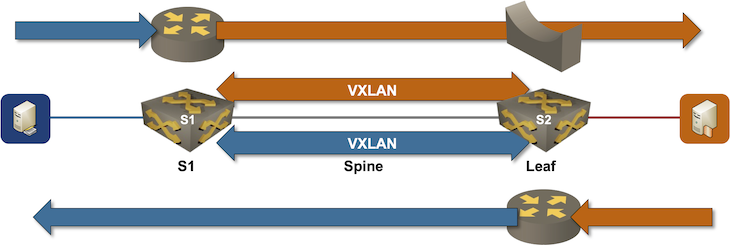
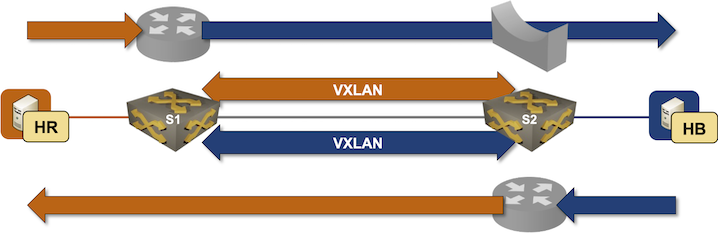
EVPN: Asymmetric IRB (#17)

diff --git a/docs/evpn/4-asym-irb.md b/docs/evpn/4-asym-irb.md
@@ -1,0 +1,157 @@
+# EVPN Asymmetric Integrated Routing and Bridging
+
+In the [previous lab exercise](3-irb.md), we created an EVPN-based VRF that connected two stretched VLANs. We had an easy task because hosts from every VLAN were connected to every switch. Can you use the same trick if the hosts are sparsely connected (like in the lab topology we'll use in this exercise)?
+
+![Lab topology](topology-asym-irb.png)
+
+Of course, you can. If you extend every VLAN to every fabric switch, you get the exact same scenario as in the previous lab exercise:
+
+![Lab topology](../vxlan/packet-flow-irb.png)
+
+Obviously, you'd also create too many VLANs, extend the bridging domains, have more entries in the ARP/MAC tables on all switches, and increase flooding traffic, but that's the price you have to pay if you don't want to learn any new concepts ;)
+
+Even though *asymmetric IRB* is clearly a bad solution in scenarios like the one described in this exercise, let's still go through the motions and figure out how to make it work before moving on to a better solution (*symmetric IRB*).
+
+### Device Requirements {#req}
+
+You can use any device supported by the _netlab_ [OSPF](https://netlab.tools/module/ospf/#platform-support), [BGP](https://netlab.tools/module/bgp/#platform-support), and [VLAN](https://netlab.tools/module/vlan/#platform-support) configuration modules. The device should support VXLAN and EVPN.
+
+## Start the Lab
+
+Assuming you already [set up your lab infrastructure](../1-setup.md):
+
+* Change directory to `evpn/4-asym-irb`
+* Execute **netlab up**
+* Log into lab devices with **netlab connect** and verify that the IP addresses and the OSPF are properly configured.
+
+## Existing Device Configuration
+
+* *red* VLAN is configured on S1. *blue* VLAN is configured on S2:
+
+| VLAN | VLAN tag | IPv4 prefix    |
+|------|---------:|---------------:|
+| red  | 100      | 172.16.10.0/24 |
+| blue | 101      | 172.16.11.0/24 |
+
+* IPv4 addresses are configured on Linux hosts, switch loopback interfaces, and the interswitch link ([details](#addr)).
+* Static routes pointing to the anycast gateway are configured on the Linux hosts:
+
+| Host | IPv4 prefix   | Next hop    |
+|------|--------------:|------------:|
+| HR   | 172.16.0.0/16 | 172.16.10.42 |
+| HB   | 172.16.0.0/16 | 172.16.11.42 |
+
+* The switches run OSPF in area 0 across the interswitch link ([details](#ospf)).
+* The switches have an IBGP session between their loopback interfaces. The IBGP session is currently configured to exchange IPv4 prefixes ([details](#bgp)).
+
+## Configure Integrated Routing
+
+You'll configure the VLANs, *tenant* VRF, IP addresses on switch VLAN interfaces, and anycast gateways before configuring VXLAN or EVPN:
+
+* Configure *blue* VLAN and an associated VLAN interface on S1
+* Configure *red* VLAN and an associated VLAN interface on S2
+* Create a *tenant* VRF and enable IP routing in that VRF
+* Put the *red* and *blue* VLAN interfaces into the *tenant* VRF
+* Configure the following IP addresses on S1 and S2:
+
+| Node/Interface | IPv4 Address | Description |
+|----------------|-------------:|-------------|
+| **s1** |||
+| Vlan100 | 172.16.10.1/24 | VLAN red (100) -> [hr,s2] (VRF: tenant) |
+| Vlan101 | 172.16.11.1/24 | VLAN blue (101) -> [hb,s2] (VRF: tenant) |
+| **s2** |||
+| Vlan101 | 172.16.11.2/24 | VLAN blue (101) -> [s1,hb] (VRF: tenant) |
+| Vlan100 | 172.16.10.2/24 | VLAN red (100) -> [hr,s1] (VRF: tenant) |
+
+* Using the commands you mastered in the [Anycast Gateways on VXLAN Segments](../vxlan/4-anycast.md) lab exercise, configure the anycast gateways (or active-active VRRP) on *red* and *blue* VLANs using these IP addresses:
+
+| VLAN | Gateway IP address |
+|------|----------------:|
+| red  | 172.16.10.42/24 |
+| blue | 172.16.11.42/24 |
+
+* If you're using VRRP, make sure that the switch closer to the host becomes the VRRP master
+
+## Configure VXLAN and EVPN
+
+Using the procedure you mastered in the [Build an EVPN-based MAC-VRF instance](1-bridging.md) and [Integrated Routing and Bridging (IRB) with EVPN](3-irb.md) lab exercises, configure:
+
+* EVPN address family on the S1-S2 IBGP session
+* MAC-VRF for the *red* and *blue* VLANs *on S1 and S2* using these parameters:
+
+| VLAN | VNI   | route target |
+|------|------:|-------------:|
+| red  | 10010 | 65000:100 |
+| blue | 10011 | 65000:101 |
+
+* Any additional nerd knobs that might be required to make IRB work on your platform.
+
+## Verification
+
+If you used FRRouting or Arista EOS devices as the lab switches, you can use the **netlab validate** command to check your work:
+
+![Validation results](validate-asym-irb.png)
+
+Alternatively, use **ping** to check that HR and HB can communicate (proving that inter-subnet routing across VXLAN segments works):
+
+```
+$ netlab connect hr ping -c 3 hb
+Connecting to container clab-asymirb-hr, executing ping -c 3 hb
+PING hb (172.16.11.4): 56 data bytes
+64 bytes from 172.16.11.4: seq=0 ttl=63 time=2.307 ms
+64 bytes from 172.16.11.4: seq=1 ttl=63 time=1.944 ms
+64 bytes from 172.16.11.4: seq=2 ttl=63 time=2.407 ms
+
+--- hb ping statistics ---
+3 packets transmitted, 3 packets received, 0% packet loss
+round-trip min/avg/max = 1.944/2.219/2.407 ms
+```
+
+Use the troubleshooting hints from the [Build an EVPN-based MAC-VRF instance](1-bridging.md#tshoot) and [Integrated Routing and Bridging (IRB) with EVPN](3-irb.md#tshoot) lab exercises if needed (we expect you're familiar with the traditional routing between VLAN segments).
+
+## Cheating
+
+* Shut down your lab with the **netlab down** command
+* Start the lab from the `solution.yml` topology with the **netlab up solution.yml** command
+* Explore the S1/S2 device configuration
+
+## Reference Information
+
+### Lab Wiring {#wiring}
+
+| Origin Device | Origin Port | Destination Device | Destination Port |
+|---------------|-------------|--------------------|------------------|
+| s1 | Ethernet1 | s2 | Ethernet1 |
+| hr | eth1 | s1 | Ethernet2 |
+| hb | eth1 | s2 | Ethernet2 |
+
+### Lab Addressing {#addr}
+
+| Node/Interface | IPv4 Address | IPv6 Address | Description |
+|----------------|-------------:|-------------:|-------------|
+| **s1** |  10.0.0.1/32 |  | Loopback |
+| Ethernet1 | 10.1.0.1/30 |  | s1 -> s2 |
+| **s2** |  10.0.0.2/32 |  | Loopback |
+| Ethernet1 | 10.1.0.2/30 |  | s2 -> s1 |
+| **hr** | 
+| eth1 | 172.16.10.3/24 |  | hr -> s1 [red VLAN] |
+| **hb** | 
+| eth1 | 172.16.11.4/24 |  | hb -> s2 [blue VLAN] |
+
+### OSPF Routing (Area 0) {#ospf}
+
+| Router | Interface | IPv4 Address | Neighbor(s) |
+|--------|-----------|-------------:|-------------|
+| s1 | Loopback | 10.0.0.1/32 | |
+|  | Ethernet1 | 10.1.0.1/30 | s2 |
+| s2 | Loopback | 10.0.0.2/32 | |
+|  | Ethernet1 | 10.1.0.2/30 | s1 |
+
+### BGP Routing {#bgp}
+
+| Node | Router ID/<br />Neighbor | Router AS/<br />Neighbor AS | Neighbor IPv4 |
+|------|------------------|---------------------:|--------------:|
+| **s1** | 10.0.0.1 | 65000 |
+| | s2 | 65000 | 10.0.0.2 |
+| **s2** | 10.0.0.2 | 65000 |
+| | s1 | 65000 | 10.0.0.1 |

diff --git a/docs/index.md b/docs/index.md
@@ -35,7 +35,7 @@ After mastering the basics of using VXLAN to stretch Ethernet segments across an
 * [Build an EVPN-based MAC-VRF instance](evpn/1-bridging.md)
 * [More complex EVPN/VXLAN bridging scenario](evpn/2-complex.md)
 * [Integrated Routing and Bridging (IRB) with EVPN MAC-VRF instances](evpn/3-irb.md)
-* Asymmetric IRB with MAC-VRF EVPN instances (coming soon)
+* [EVPN Asymmetric Integrated Routing and Bridging (IRB)](evpn/4-asym-irb.md)
 * Symmetric IRB with IP-VRF EVPN instances (coming soon)
 * Intra-subnet symmetric routing with proxy ARP
 * Using EVPN in an IPv6-only underlay network

diff --git a/docs/evpn/3-irb.md b/docs/evpn/3-irb.md
@@ -90,7 +90,7 @@ Some platforms might require additional nerd knobs to make ARP resolution work. 
 !!! tip 
     See *EVPN Routes and ARP Resolution* section for more details (the [ARP Challenges in EVPN/VXLAN Symmetric IRB](https://blog.ipspace.net/2025/04/evpn-symmetric-irb-arp/) blog post describes a similar challenge). 
 
-## Verification
+## Verification and Troubleshooting {#tshoot}
 
 Use **netlab validate** or **ping** on hosts to verify that all hosts can reach each other:
 

diff --git a/evpn/4-asym-irb/README.md b/evpn/4-asym-irb/README.md
@@ -1,0 +1,7 @@
+# EVPN Asymmetric Integrated Routing and Bridging (IRB)
+
+This directory contains the *netlab* topology file for the
+
+**[EVPN Asymmetric Integrated Routing and Bridging (IRB)](../../docs/evpn/4-asym-irb.md)** lab.
+
+![](../../docs/evpn/topology-asym-irb.png)
